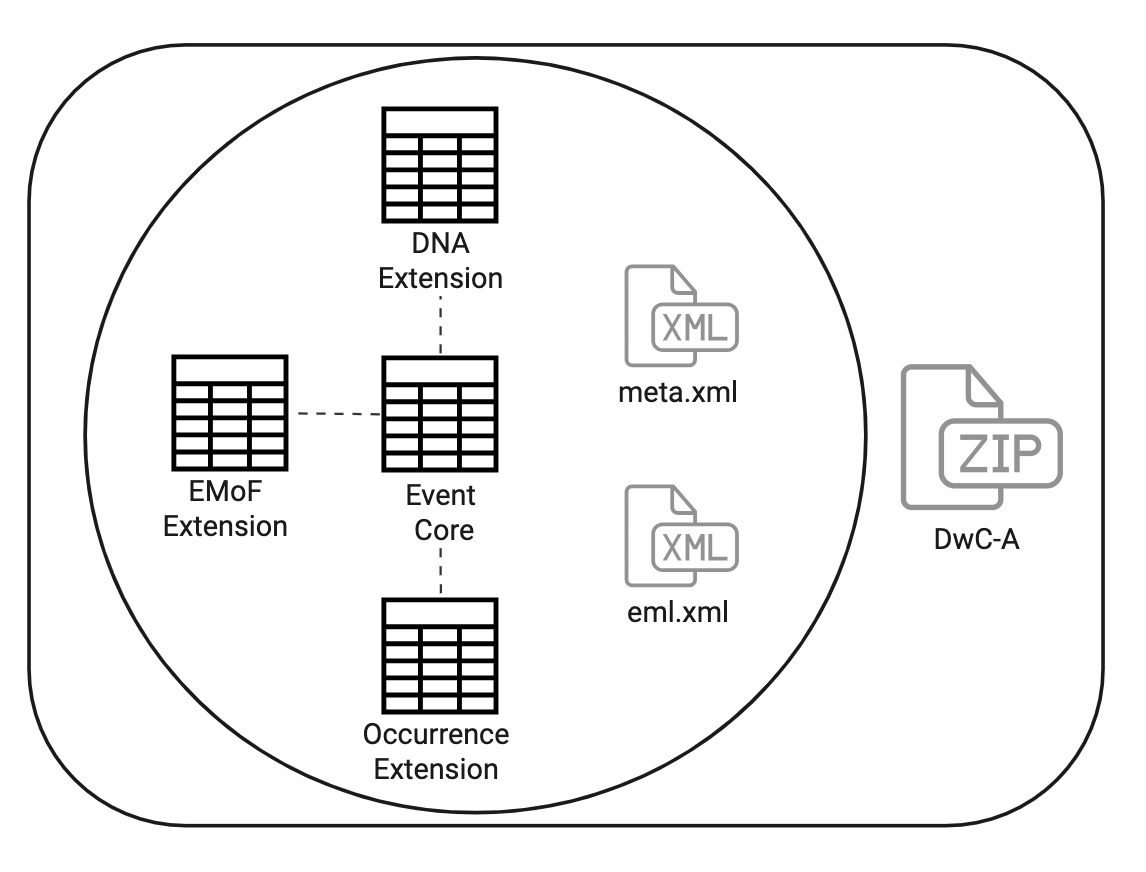
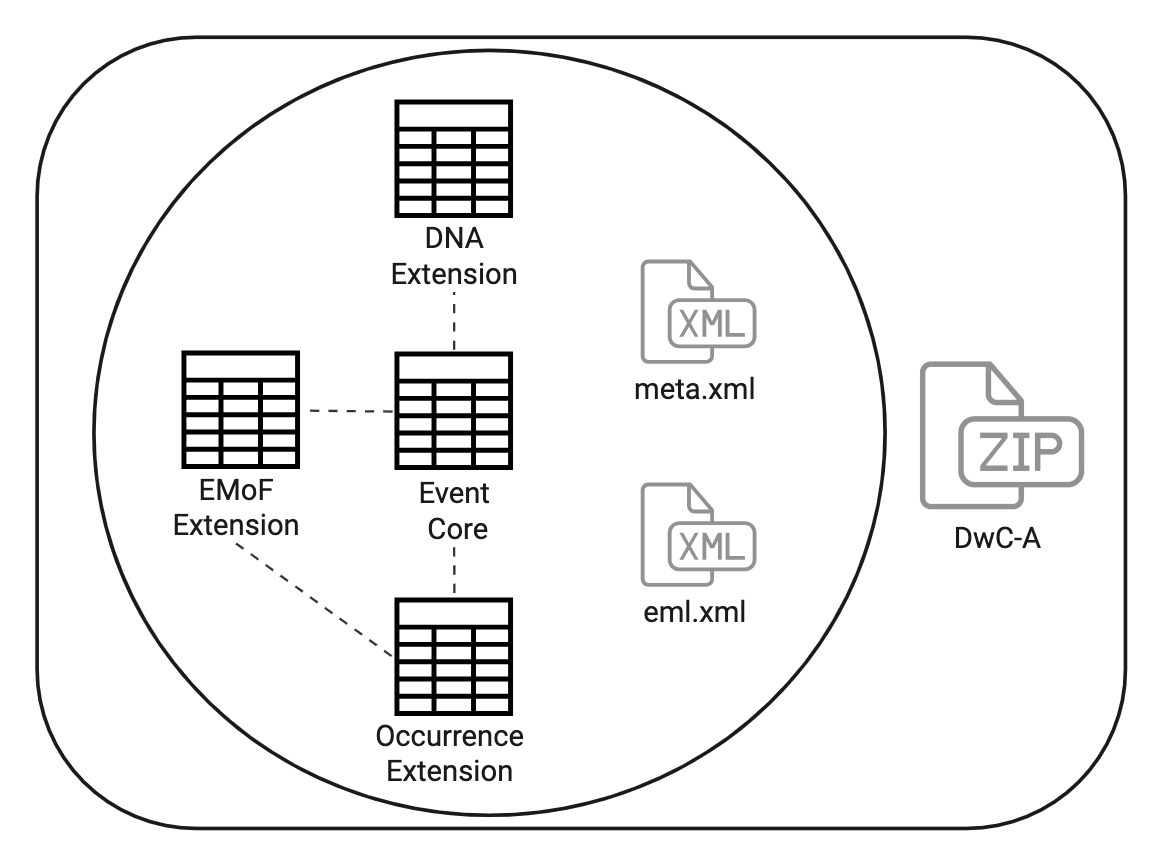
improved group mapping example, revised event core illustration

diff --git a/_episodes/04-dataset-mapping.md b/_episodes/04-dataset-mapping.md
@@ -95,7 +95,11 @@ Last year, a tweak was made to to the extension to allow Event Core and relevant
 
 ## Group Mapping exercise
 
-**Dataset:** Chironomid Specimen records in the Chironomid DNA Barcode Database <https://doi.org/10.15468/hxhow5>
+![Chironomus nipponensis (Specimen ID: S0100)](https://www.nies.go.jp/yusurika/photo/10618.jpg){: .image-with-shadow style="float: left; margin-right: 15px;" width="300px" }
+
+<p style="margin-top: 200px;"><strong>Dataset:</strong> Chironomid Specimen records in the Chironomid DNA Barcode Database <a href = "https://doi.org/10.15468/hxhow5">https://doi.org/10.15468/hxhow5</a></p>
+
+<div style="clear: both;"></div>
 
 > ## Review these terms an example values from the dataset. Note which terms should go in the occurrence table, the DNA table, and the multimedia table.
 >
